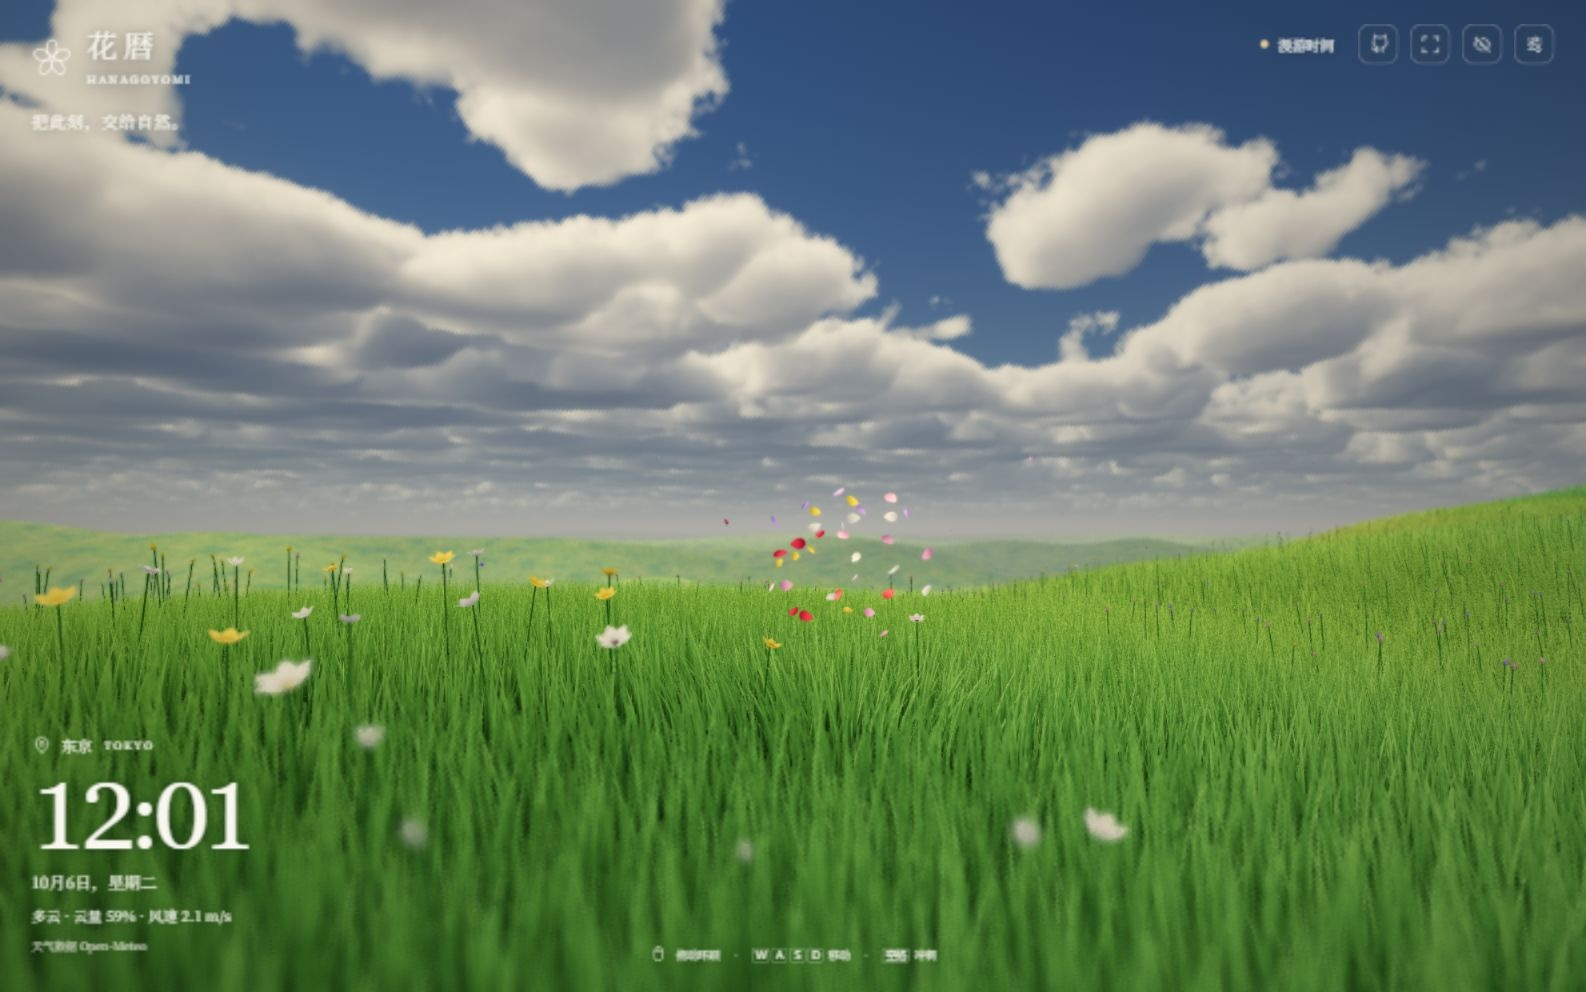
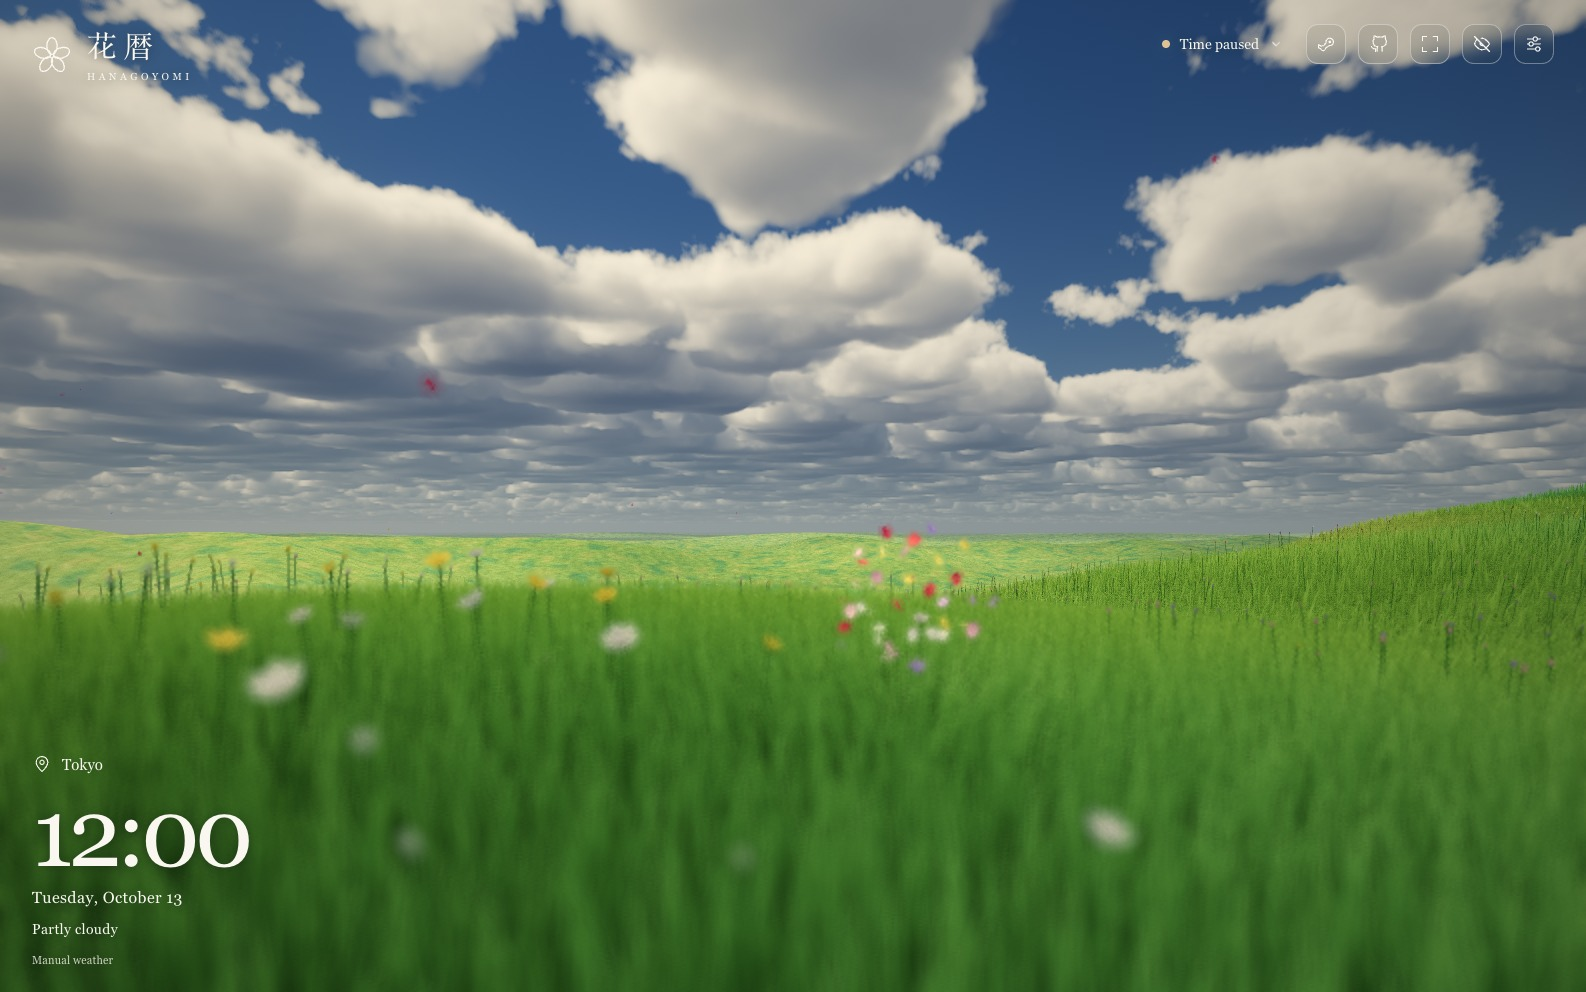
docs: 更新 README 截图并同步中英文界面

diff --git a/README.zh-CN.md b/README.zh-CN.md
@@ -20,9 +20,9 @@
 
 </div>
 
-<a href="https://hanagoyomi.luyilabs.com/"><img src="docs/images/hanagoyomi-desktop.jpg" alt="花暦实际运行截图：暮色下的草原与世界设置面板" width="100%"></a>
+<a href="https://hanagoyomi.luyilabs.com/"><img src="docs/images/hanagoyomi-desktop-zh-CN.jpg" alt="花暦实际运行截图：暮色下的草原与世界设置面板" width="100%"></a>
 
-> 上图为浏览器中的实际 WebGL2 渲染。草原与花海由程序生成，天空随所选地点的天文位置和当前天气变化；地形并非该城市的地理复刻。
+> 截图为中文界面下的实际 WebGL2 渲染，通过应用内的时间与天气设置展示暮色、白昼和夜晚。草原与花海由程序生成，地形并非所选城市的地理复刻。
 
 ## 一片会变化的自然
 
@@ -37,15 +37,15 @@
 
 <table>
   <tr>
-    <td width="50%"><img src="docs/images/hanagoyomi-day.jpg" alt="白昼草原实际截图" width="100%"></td>
-    <td width="50%"><img src="docs/images/hanagoyomi-night.jpg" alt="夜间星空实际截图" width="100%"></td>
+    <td width="50%"><img src="docs/images/hanagoyomi-day-zh-CN.jpg" alt="白昼草原实际截图" width="100%"></td>
+    <td width="50%"><img src="docs/images/hanagoyomi-night-zh-CN.jpg" alt="夜间星空实际截图" width="100%"></td>
   </tr>
   <tr><td align="center">白昼 · 风与花瓣</td><td align="center">夜晚 · 星光与萤火虫</td></tr>
 </table>
 
 <details>
 <summary>触屏上的花暦</summary>
-<p align="center"><img src="docs/images/hanagoyomi-mobile.jpg" alt="393 像素宽移动视口下的花暦实际界面" width="280"></p>
+<p align="center"><img src="docs/images/hanagoyomi-mobile-zh-CN.jpg" alt="393 像素宽移动视口下的花暦实际界面" width="280"></p>
 初次访问时，移动端默认收起设置，点右上角调节按钮展开底部面板。此图为浏览器移动视口仿真。
 </details>
 

diff --git a/README.md b/README.md
@@ -22,7 +22,7 @@ Step into a changing natural world of clouds, meadows and petals, following real
 
 <a href="https://hanagoyomi.luyilabs.com/"><img src="docs/images/hanagoyomi-desktop.jpg" alt="Actual WebGL2 rendering of the meadow at dusk with the world settings panel" width="100%"></a>
 
-> The image shows the actual browser rendering. The meadow and flowers are procedural; the sky follows the selected location's astronomical position and current weather. The terrain does not reproduce that city's geography. Screenshots may show the Chinese interface; English and Japanese are also available.
+> These screenshots show actual WebGL2 rendering with the English interface, using the app's time and weather controls to demonstrate dusk, day and night. The meadow and flowers are procedural; the terrain does not reproduce the selected city's geography.
 
 ## A world that changes
 
